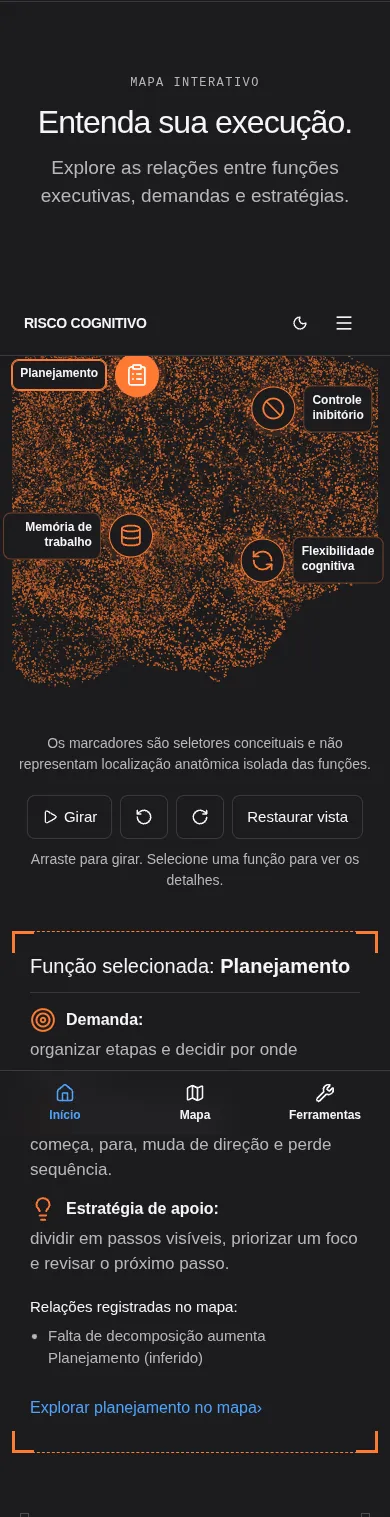
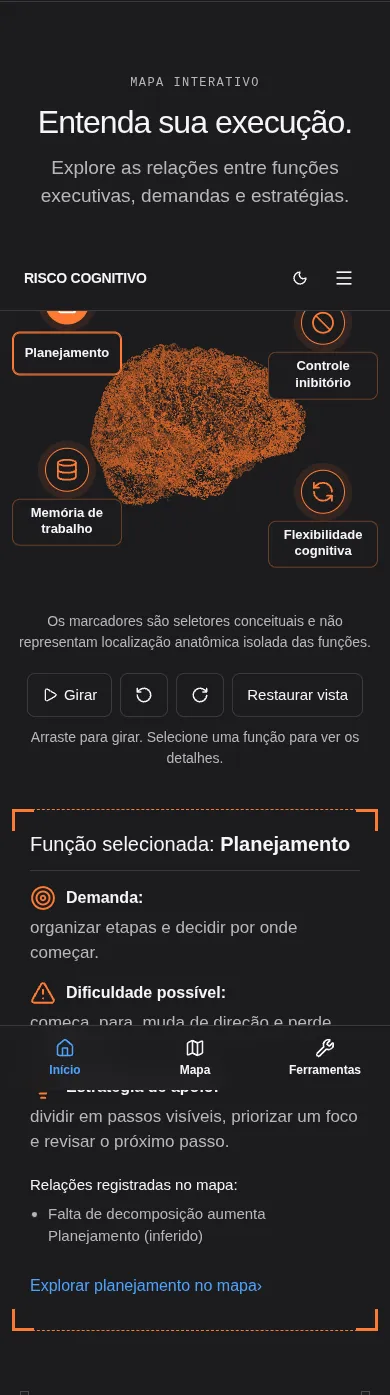
docs(blog): verificação e capturas do HOME-BRAIN-001 v1.0.1
Claude-Session: https://claude.ai/code/session_01TPig4j3smpN1NTFybmMovf

Changed region(s): [[0.0, 0.1849, 0.9846, 0.9556], [0.0923, 0.0308, 0.8923, 0.1541], [0.9231, 0.9247, 0.9846, 0.9556]]

diff --git a/apps/blog/docs/handoff/HOME-BRAIN-001/VERIFICATION.md b/apps/blog/docs/handoff/HOME-BRAIN-001/VERIFICATION.md
@@ -25,3 +25,21 @@ dois temas sem overflow horizontal e sem violações axe sérias ou críticas (W
   (A DEFINIR). O WebGL dos testes é SwiftShader, então não serve de medida de desempenho.
 - Core Web Vitals de campo: chegam pelo Cloudflare Web Analytics depois da publicação (ADR-20).
 - Fidelidade visual: adaptação de capturas; nada de pixel a pixel com a referência.
+
+## v1.0.1 — correção mobile (2026-10-05)
+
+O patch `HOME_BRAIN_MOBILE_FIX_v1.0.1` (proveniência em `v1.0.1-README.md`) foi aplicado sobre `main` @ 4c17b67:
+- a câmera encaixa pela largura (FOV horizontal);
+- no mobile, o palco é quadrado e os marcadores ficam nas laterais em alturas alternadas, com rótulo de 44 px;
+- o teste de regressão confere que, em 320/390 px, os marcadores ficam dentro da viewport e não se sobrepõem.
+
+**Um ajuste no patch:** o material dele (ponto 0.014 com `transparent`, `opacity` 0.78 e `depthWrite: false`) deixava
+a nuvem invisível no render, tanto no celular quanto no desktop; as capturas do teste mostravam o palco vazio. Fica o
+ponto opaco recortado (`alphaTest`), como na v1.0.0, em 0.02: mais fino que os 0.03 de antes, que era a intenção do
+patch.
+
+| Verificação | Resultado |
+|---|---|
+| `npm run test:brain` (inclui o teste novo de 320/390 px) | 10/10 PASS |
+| `surfaces`, `hig`, `editorial`, `tokens` | 107/107 PASS, snapshots inalterados |
+| Capturas 390/1440, claro e escuro | atualizadas (`*.webp`) |

diff --git a/apps/blog/docs/handoff/HOME-BRAIN-001/v1.0.1-README.md b/apps/blog/docs/handoff/HOME-BRAIN-001/v1.0.1-README.md
@@ -1,0 +1,18 @@
+# HOME-BRAIN-001 · correção mobile v1.0.1
+
+Base: hubexecutar-lgtm/react-router-starter-template, main em 4c17b6791ef49f8a56f3e0d60a8eee876a5d4c0a.
+
+Problema: a câmera encaixava o modelo pela altura em telas estreitas, cortando as laterais. Os marcadores se expandiam a partir de posições percentuais e invadiam as bordas e a figura. As partículas tinham tamanho excessivo.
+
+Mudanças: cálculo de distância da câmera pelo campo de visão horizontal; ponto menor e translúcido; palco mobile quadrado; quatro controles compactos nas laterais, em alturas alternadas; teste de regressão para viewport de 320 e 390 px.
+
+Aplique na raiz do monorepo (main no commit base):
+
+    git apply --check apply.patch
+    git apply apply.patch
+    npm ci
+    npm run typecheck -w apps/blog
+    npm run build -w apps/blog
+    npm run test:brain -w apps/blog
+
+Os arquivos completos também estão em source/ para revisão. TypeScript e build passaram nesta entrega. O teste Playwright não pôde ser executado neste ambiente porque o download do navegador retornou um arquivo inválido; rode-o antes da publicação. Nenhum push ou deploy foi feito.
